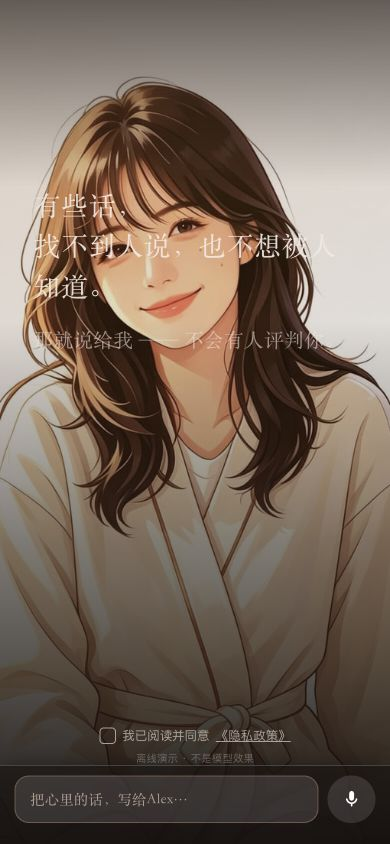
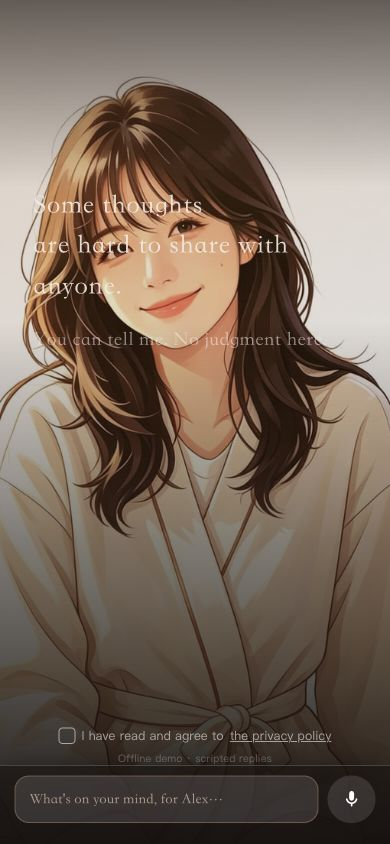
Rename the project to YourHer AI and refresh English README imagery
Use YourHerAI for the GitHub repository and clone commands, yourher-ai for package identifiers, and YourHer AI throughout application branding, configuration and documentation. Point both READMEs at a fresh English first-meeting image and replace the legacy first-screen image with its English version.

diff --git a/apps/web/public/index.html b/apps/web/public/index.html
@@ -1,10 +1,10 @@
 <!doctype html>
 <html lang="en">
-<head><meta charset="utf-8"><meta name="viewport" content="width=device-width,initial-scale=1,viewport-fit=cover"><meta name="theme-color" content="#221a18"><title>CompanionKit</title><meta name="description" content="带长期记忆的 AI 陪伴，完整网页自托管版。"><link rel="stylesheet" href="/style.css"><script type="module" src="/app.js"></script></head>
+<head><meta charset="utf-8"><meta name="viewport" content="width=device-width,initial-scale=1,viewport-fit=cover"><meta name="theme-color" content="#221a18"><title>YourHer AI</title><meta name="description" content="带长期记忆的 AI 陪伴，完整网页自托管版。"><link rel="stylesheet" href="/style.css"><script type="module" src="/app.js"></script></head>
 <body>
   <div class="app-shell">
     <aside class="rail" aria-label="应用导航">
-      <a class="wordmark" href="#/chat"><span class="wordmark-symbol">◌</span><span><span data-brand>CompanionKit</span><small>CIKE · WEB</small></span></a>
+      <a class="wordmark" href="#/chat"><span class="wordmark-symbol">◌</span><span><span data-brand>YourHer AI</span><small>CIKE · WEB</small></span></a>
       <div class="rail-caption">说给此刻，留在此刻。</div>
       <nav id="navigation"><a href="#/chat" data-route="chat"><span>◌</span> 聊天</a><a href="#/letters" data-route="letters"><span>✉</span> 信</a><a href="#/memory" data-route="memory"><span>◇</span> 记得</a><a href="#/mood" data-route="mood"><span>◡</span> 心情</a><a href="#/about" data-route="about"><span>☷</span> 关于</a></nav>
       <div class="rail-footer"><label class="language-label" for="language-switch">Language</label><select id="language-switch" aria-label="Language"></select><span class="connection" id="mode-label">正在连接</span><a href="#/security">账户与数据</a><a href="#/feedback">问题反馈</a><a href="#/privacy">隐私政策</a><small>一个可以自己部署的陪伴者。<br>她是 AI，会陪你，也会出错。</small></div>

diff --git a/packages/ui/privacy.js b/packages/ui/privacy.js
@@ -8,5 +8,5 @@ export function renderPrivacy(t) {
     ['No default tracking', 'This edition includes no default third-party analytics, original-product payment connection or production monitoring. Accounts belong to this instance and do not pretend to be a third-party login.'],
     ['The limits of AI', 'The companion is AI and can misunderstand, remember incorrectly or give unreliable answers. It is not a doctor or a professional mental-health service. You can correct facts, delete memories or stop using the application at any time.']
   ];
-  return `<h1>${h(t('隐私政策'))}</h1><p class="panel-sub">CompanionKit · ${h(t('Self-hosted edition'))} · 2026-11-17</p><div class="privacy-text">${paragraphs.map(([heading, body]) => `<h2>${h(t(heading))}</h2><p>${h(t(body))}</p>`).join('')}</div>`;
+  return `<h1>${h(t('隐私政策'))}</h1><p class="panel-sub">YourHer AI · ${h(t('Self-hosted edition'))} · 2026-11-17</p><div class="privacy-text">${paragraphs.map(([heading, body]) => `<h2>${h(t(heading))}</h2><p>${h(t(body))}</p>`).join('')}</div>`;
 }

diff --git a/apps/web/server.js b/apps/web/server.js
@@ -216,5 +216,5 @@ if (process.argv[1] && import.meta.url === pathToFileURL(resolve(process.argv[1]
   const config = process.env.CONFIG_FILE ? await loadConfig(resolve(process.env.CONFIG_FILE)) : DEFAULT_CONFIG;
   const server = createWebApp({ store, model, mode, config, publicOrigin: process.env.PUBLIC_ORIGIN || '', autoLetters: process.env.AUTO_WEEKLY_LETTERS === 'true' });
   await server.ready;
-  server.listen(Number(process.env.PORT || 4317), process.env.HOST || '127.0.0.1', () => console.log(`CompanionKit: http://127.0.0.1:${server.address().port} (${mode})`));
+  server.listen(Number(process.env.PORT || 4317), process.env.HOST || '127.0.0.1', () => console.log(`YourHer AI: http://127.0.0.1:${server.address().port} (${mode})`));
 }

diff --git a/README.md b/README.md
@@ -1,12 +1,12 @@
 <div align="center">
 
-# CompanionKit
+# YourHer AI
 
-### Give your AI companion a personality. Let the conversation grow.
+### A familiar voice. A connection that grows.
 
 A self-hosted AI companion with personality, memory, and conversations that carry on.
 
-[![CI](https://github.com/DZ9/companion-kit/actions/workflows/ci.yml/badge.svg?branch=main)](https://github.com/DZ9/companion-kit/actions/workflows/ci.yml)
+[![CI](https://github.com/DZ9/YourHerAI/actions/workflows/ci.yml/badge.svg?branch=main)](https://github.com/DZ9/YourHerAI/actions/workflows/ci.yml)
 [![License: MIT](https://img.shields.io/badge/License-MIT-8b7355.svg)](LICENSE)
 [![Node.js](https://img.shields.io/badge/Node.js-24%2B-607a58.svg)](https://nodejs.org/)
 
@@ -18,15 +18,15 @@ English · [简体中文](README.zh-CN.md)
 
 <table>
   <tr>
-    <td align="center"><img src="docs/screenshots/first-meeting-en.jpg" width="250" alt="English first-meeting screen with the original portrait"><br><sub>A place to start</sub></td>
+    <td align="center"><img src="docs/screenshots/first-meeting-english.jpg" width="250" alt="English first-meeting screen with the original portrait"><br><sub>A place to start</sub></td>
     <td align="center"><img src="docs/screenshots/conversation.jpg" width="250" alt="Streaming conversation with suggested replies"><br><sub>A conversation that continues</sub></td>
     <td align="center"><img src="docs/screenshots/memory.jpg" width="250" alt="Your companion's memory panel"><br><sub>The things that stay</sub></td>
   </tr>
 </table>
 
-CompanionKit is a companion you can make your own. Choose a name, an appearance and a speaking style. Talk about your day, share what matters, and return to a conversation with a little more continuity.
+YourHer AI is a companion you can make your own. Choose a name, an appearance and a speaking style. Talk about your day, share what matters, and return to a conversation with a little more continuity.
 
-**Personality makes a conversation feel familiar. Memory helps it continue.** CompanionKit brings both together with streaming replies, contextual reply chips, mood check-ins and weekly letters.
+**Personality makes a conversation feel familiar. Memory helps it continue.** YourHer AI brings both together with streaming replies, contextual reply chips, mood check-ins and weekly letters.
 
 Run the complete web app on your own instance, connect the model you choose, or reuse its individual components to build your own companion experience.
 
@@ -37,8 +37,8 @@ The interface carries over the original companion product's portrait artwork, wa
 **Node.js 24+**. No dependency installation is needed for the built-in demo.
 
 ```sh
-git clone https://github.com/DZ9/companion-kit.git
-cd companion-kit
+git clone https://github.com/DZ9/YourHerAI.git
+cd YourHerAI
 npm start
 ```
 

diff --git a/README.zh-CN.md b/README.zh-CN.md
@@ -1,12 +1,12 @@
 <div align="center">
 
-# CompanionKit
+# YourHer AI
 
-### 赋予 AI 个性，让每一次对话继续生长。
+### 熟悉的声音，慢慢建立的联结。
 
 有个性、能记忆、可以持续交流的自托管 AI 陪伴。
 
-[![CI](https://github.com/DZ9/companion-kit/actions/workflows/ci.yml/badge.svg?branch=main)](https://github.com/DZ9/companion-kit/actions/workflows/ci.yml)
+[![CI](https://github.com/DZ9/YourHerAI/actions/workflows/ci.yml/badge.svg?branch=main)](https://github.com/DZ9/YourHerAI/actions/workflows/ci.yml)
 [![MIT](https://img.shields.io/badge/License-MIT-8b7355.svg)](LICENSE)
 [![Node.js](https://img.shields.io/badge/Node.js-24%2B-607a58.svg)](https://nodejs.org/)
 
@@ -17,20 +17,20 @@
 </div>
 
 <table><tr>
-<td align="center"><img src="docs/screenshots/first-meeting-en.jpg" width="250" alt="原版立绘与英文首次见面"><br><sub>从一句话开始</sub></td>
+<td align="center"><img src="docs/screenshots/first-meeting-english.jpg" width="250" alt="原版立绘与英文首次见面"><br><sub>从一句话开始</sub></td>
 <td align="center"><img src="docs/screenshots/conversation.jpg" width="250" alt="连续对话与续聊 chips"><br><sub>把对话继续下去</sub></td>
 <td align="center"><img src="docs/screenshots/memory.jpg" width="250" alt="可查看和删除的记忆"><br><sub>记下重要的小事</sub></td>
 </tr></table>
 
-CompanionKit 是可以由你塑造的 AI 陪伴者。选择名字、外观和说话风格，聊聊日常，分享在意的事，再回来接着聊。个性让对话有熟悉感，记忆让它能继续。流式多气泡回复、续聊 chips、长期记忆、心情打卡和每周信件共同构成完整体验。界面沿用原应用的人物立绘、日夜主题、右上纵向导航与滑入面板，同时保留通用品牌、多语言和模型配置。
+YourHer AI 是可以由你塑造的 AI 陪伴者。选择名字、外观和说话风格，聊聊日常，分享在意的事，再回来接着聊。个性让对话有熟悉感，记忆让它能继续。流式多气泡回复、续聊 chips、长期记忆、心情打卡和每周信件共同构成完整体验。界面沿用原应用的人物立绘、日夜主题、右上纵向导航与滑入面板，同时保留通用品牌、多语言和模型配置。
 
 ## 快速启动
 
 需要 Node.js 24+，内置演示不需要安装第三方依赖。
 
 ```sh
-git clone https://github.com/DZ9/companion-kit.git
-cd companion-kit
+git clone https://github.com/DZ9/YourHerAI.git
+cd YourHerAI
 npm start
 ```
 

diff --git a/docs/product-positioning.md b/docs/product-positioning.md
@@ -1,6 +1,6 @@
 # Product positioning
 
-CompanionKit is a self-hosted AI companion with personality, memory and conversational continuity. The complete web application is the primary experience; reusable packages are the developer-facing foundation.
+YourHer AI is a self-hosted AI companion with personality, memory and conversational continuity. The complete web application is the primary experience; reusable packages are the developer-facing foundation.
 
 The presentation takes inspiration from Character.AI's character-first framing: introduce who the companion is, how its style can be shaped, and what an ongoing conversation feels like before explaining the infrastructure.
 
@@ -12,4 +12,4 @@ Official references consulted:
 - [Character Definition](https://support.character.ai/hc/en-us/articles/50609183646875-5-Character-Definition) — personality, voice and behavioral consistency.
 - [Smarter Memory for Smarter Chats](https://blog.character.ai/memory/) — explaining persistent context in terms of the conversation experience.
 
-CompanionKit is an independent open-source project. Its implementation and product assets do not come from Character.AI; no affiliation or feature parity is claimed.
+YourHer AI is an independent open-source project. Its implementation and product assets do not come from Character.AI; no affiliation or feature parity is claimed.

diff --git a/docs/i18n.md b/docs/i18n.md
@@ -1,6 +1,6 @@
 # Language configuration
 
-CompanionKit ships with English (`en`) and Simplified Chinese (`zh-CN`). English is the default. The full interface, dialogs, navigation, status/error copy, chips, date formatting and model reply/letter instructions use the selected language. User-authored and previously generated content is never translated in place.
+YourHer AI ships with English (`en`) and Simplified Chinese (`zh-CN`). English is the default. The full interface, dialogs, navigation, status/error copy, chips, date formatting and model reply/letter instructions use the selected language. User-authored and previously generated content is never translated in place.
 
 ## Instance configuration
 

diff --git a/docs/provenance.md b/docs/provenance.md
@@ -1,6 +1,6 @@
 # Provenance
 
-CompanionKit is a general-purpose, self-hosted web edition derived from the owner's personal companion product, formerly maintained in the private `DZ9/chatNPC` repository. The private production repository and its history remain separate.
+YourHer AI is a general-purpose, self-hosted web edition derived from the owner's personal companion product, formerly maintained in the private `DZ9/chatNPC` repository. The private production repository and its history remain separate.
 
 Reviewed source revision: `f2121dc1e323bc7143ba6d7e22c8c70fbbceb0fb`.
 
